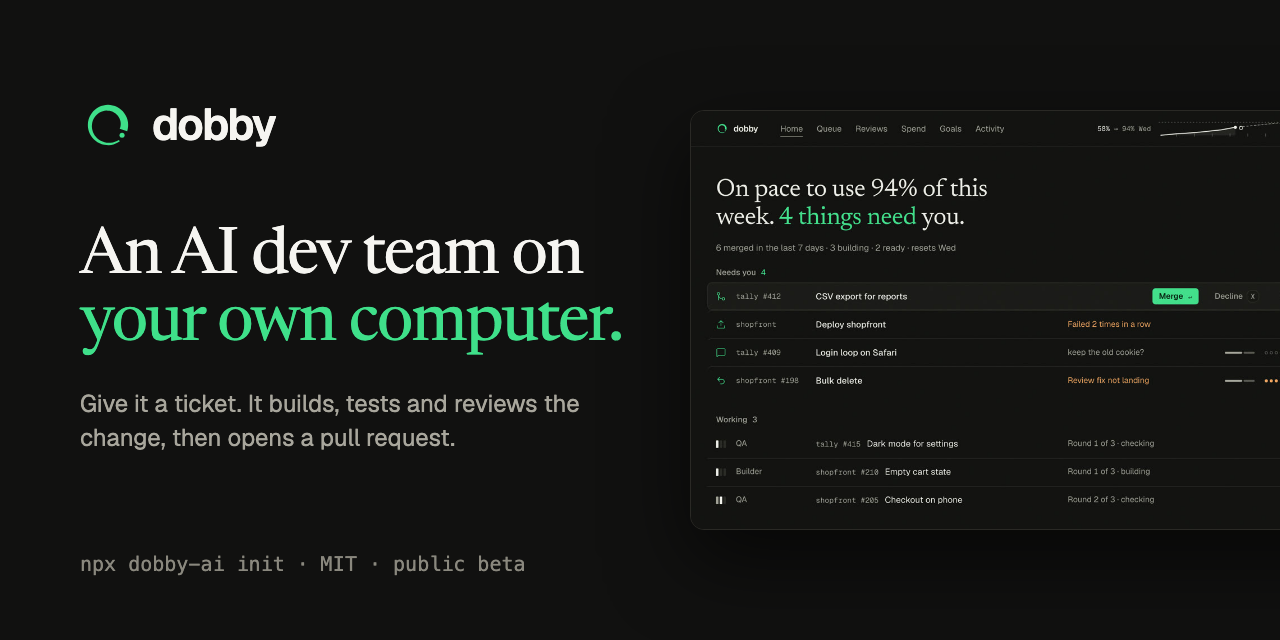
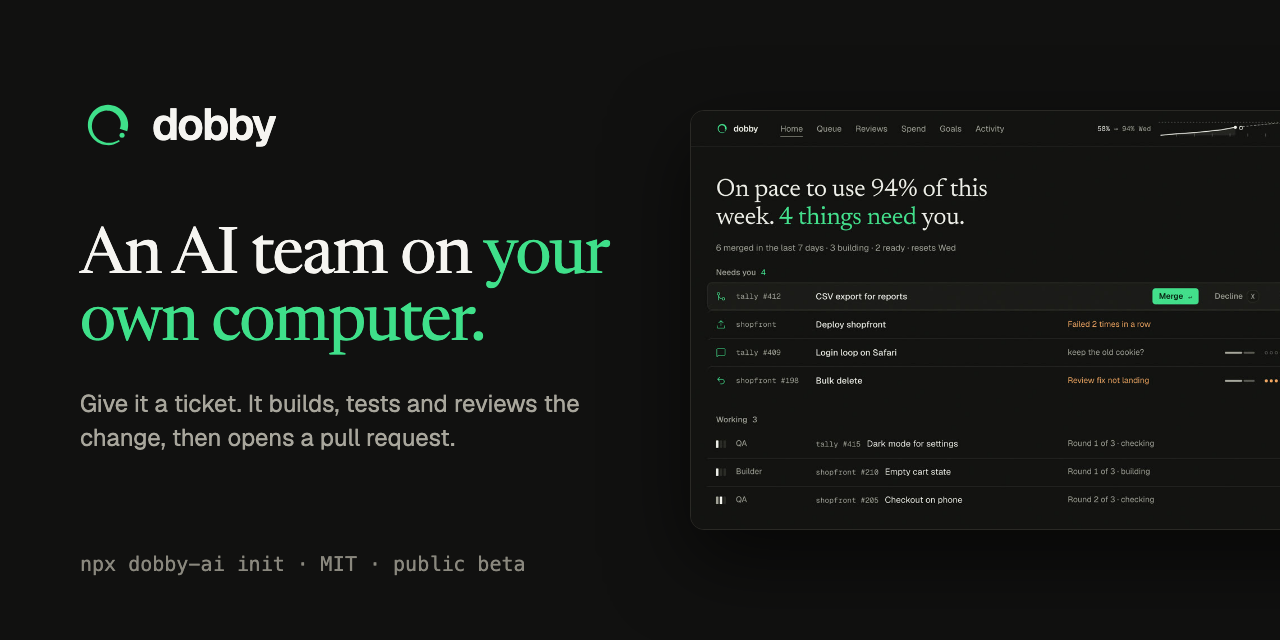
Say AI team on your own computer; share image for the landing page

Changed region(s): [[0.0625, 0.3438, 0.5, 0.5625]]

diff --git a/README.md b/README.md
@@ -7,7 +7,7 @@
 
 # Dobby
 
-**An AI dev team on your own computer.**<br>
+**An AI team on your own computer.**<br>
 Give it a ticket. It plans, builds, tests and reviews the change, then opens a pull request.
 
 [![npm](https://img.shields.io/npm/v/dobby-ai?label=npm&labelColor=171612&color=0d7b43)](https://www.npmjs.com/package/dobby-ai) [![License: MIT](https://img.shields.io/badge/license-MIT-0d7b43?labelColor=171612)](LICENSE) [![Status: public beta](https://img.shields.io/badge/status-public%20beta-ad5118?labelColor=171612)](docs/manual/install.md)
